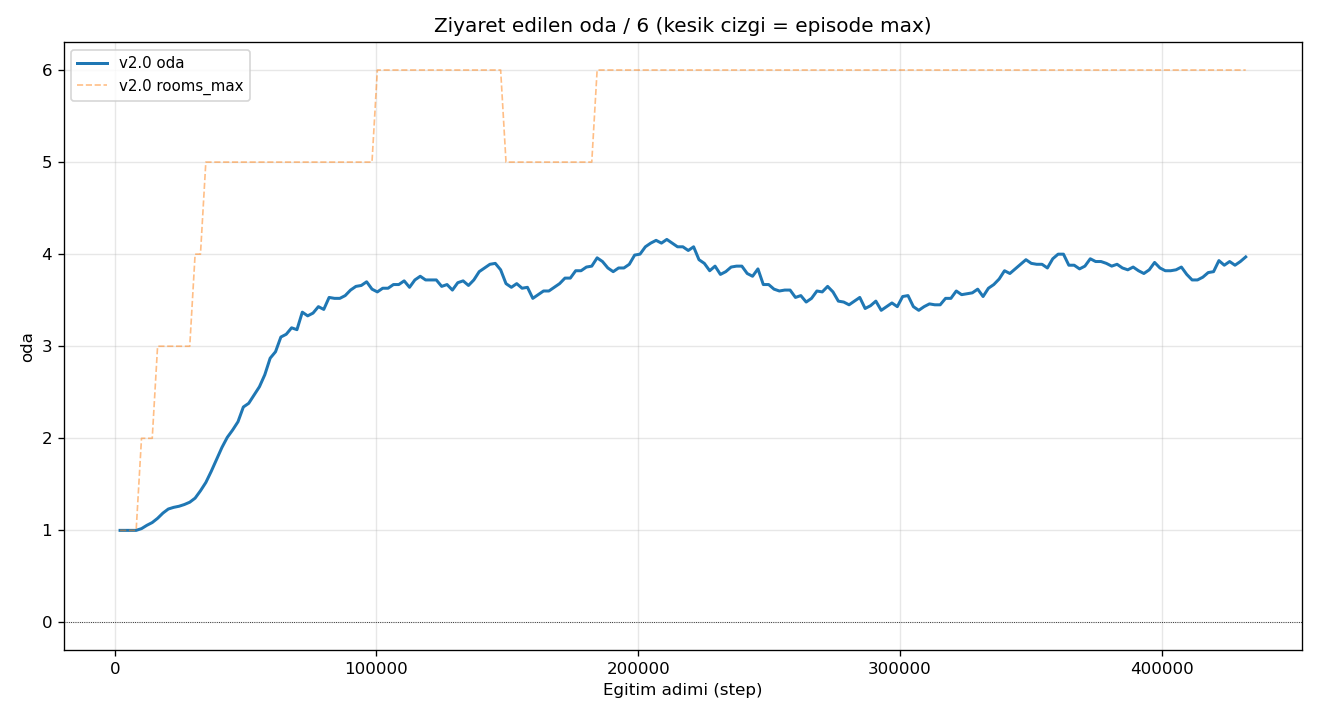
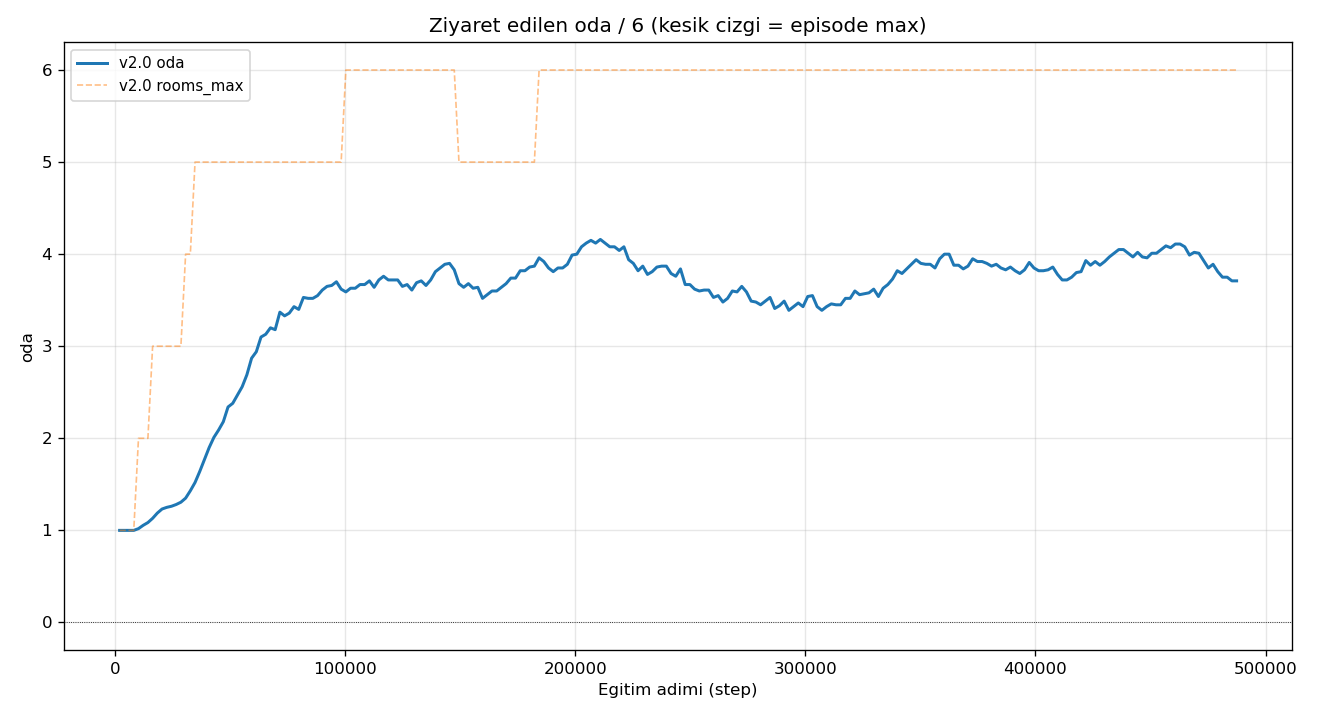
auto(operator): refresh report @487k steps (healthy, no intervention)

diff --git a/docs/REPORT.md b/docs/REPORT.md
@@ -6,7 +6,7 @@ Otomatik uretildi (`scripts/report.py`). Operator agent gunceller.
 
 | Versiyon | Son step | Son reward | Peak reward | Peak voxel (max) | Peak oda (max) |
 |---|---|---|---|---|---|
-| v2.0 | 432,128 | +90.2 | +104.1 | 212/1024 | 6/6 |
+| v2.0 | 487,424 | +90.3 | +104.1 | 212/1024 | 6/6 |
 
 ## Versiyon / Mudahale Gunlugu
 
